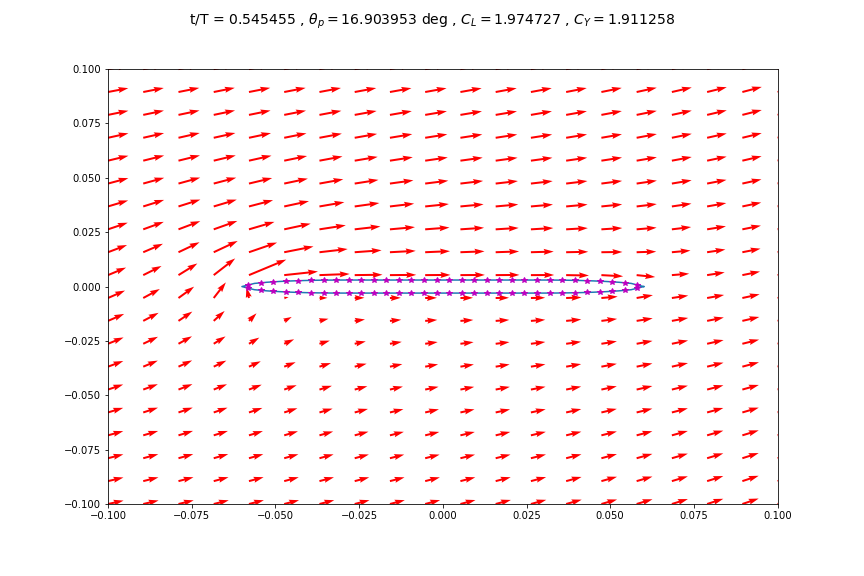
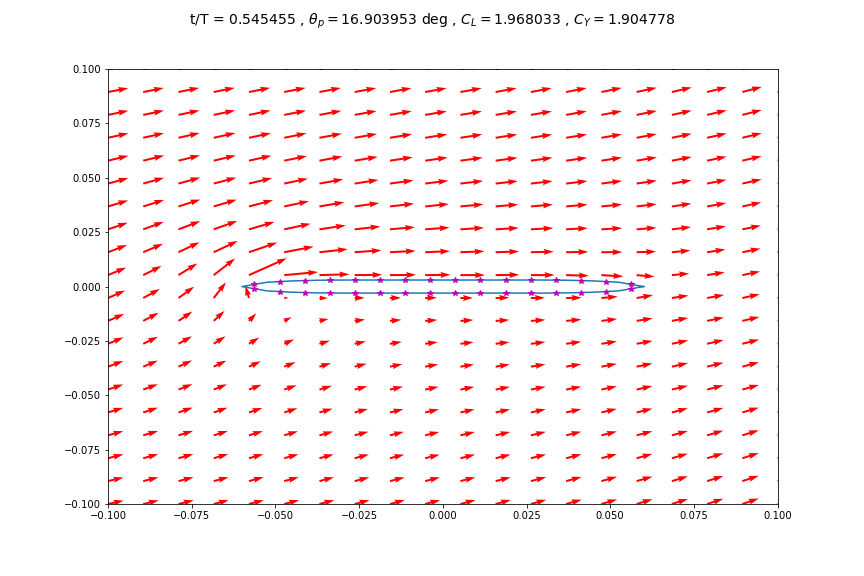
Added moment and pressure coefficient calculation
Added a moment calculation based on the kutta formulat for Lift, but I think it's wrong.  Added a plot of C_p over the chord length.  It might be right but unsure.

Changed region(s): [[0.2812, 0.4375, 0.75, 0.5312], [0.5938, 0.0, 0.6562, 0.0625], [0.7188, 0.0312, 0.7812, 0.0625]]

diff --git a/steady flat plate.py b/steady flat plate.py
@@ -10,14 +10,14 @@ import copy
 
 # setup panel coordinates and control point coordinates
 AoA=5*np.pi/180
-Uinf=8.8
+Uinf=3
 rho=1.204
 chord=.12
 span=chord*2
-thickness=.001
+thickness=.006
 minRad=thickness/2
 majRad=chord/4
-numPanels=64
+numPanels=128
 xp=np.zeros((numPanels+1,1))
 yp=np.zeros((numPanels+1,1))
 
@@ -111,9 +111,9 @@ for i in range(numPanels):
     si[i]=((xp[i+1]-xp[i])**2+(yp[i+1]-yp[i])**2)**(1/2)
     perimeter=perimeter+si[i]
 gamma=x[-1]*perimeter
+Cl_kutta=2*gamma/(Uinf*chord)
 
 # Lift from conformal mapping
-Cl_kutta=2*gamma/(Uinf*chord)
 Cl_J=2*np.pi*np.sin(AoA)
 
 # lift from bernoulli
@@ -121,6 +121,15 @@ dP=np.reshape(1/2*rho*(Uinf**2-tangVelFoil**2),(numPanels,1))
 yForceDist=-dP*si*np.cos(theta-AoA)
 lift_bern=np.sum(yForceDist)
 Cl_bern=2*lift_bern/(rho*Uinf**2*chord)
+
+# moment about pitching axis from kutta
+FyKutta=rho*(normU**2+tangU**2)**(1/2)*x[-1]*np.cos(AoA)
+momentKutta=np.sum(FyKutta*-xc)
+
+# coefficient of pressure over chord, 1st column collocation point, 2nd column Cp
+CP=np.zeros((numPanels//2,2))
+CP[:,0]=np.reshape(xc[:numPanels//2],(numPanels//2,))
+CP[:,1]=np.reshape((dP[:numPanels//2]-dP[numPanels//2-1::-1])/(1/2*rho*Uinf**2),(numPanels//2,))
 
 # calculate velocities in the flow field
 numPoints=20
@@ -175,8 +184,16 @@ plt.xlim(xLeft,xRight)
 plt.plot(xp,yp)
 plt.quiver(X,Y,xVelStream,yVelStream,color='r')
 plt.plot(xc,yc,'*',color='m')
-plt.savefig('steady_plate_5_AoA_.png')
+#plt.savefig('steady_plate_5_AoA_.png')
+
+# plot pressure coefficient
+fig2=plt.figure(figsize=(12,8))
+fig2.add_subplot(111)
+plt.plot(CP[:,0],CP[:,1])
+plt.xlabel('chord',fontsize=14)
+plt.ylabel(r'$C_P$',fontsize=14)
 
 print('C_L from kutta:',Cl_kutta)
 print('C_L from bernoulli:',Cl_bern)
 print('C_L from conformal mapping:',Cl_J)
+print('moment about pivot: ',momentKutta)

diff --git a/symmetric joukowski.py b/symmetric joukowski.py
@@ -5,12 +5,11 @@ steady panel method from HSPM
 """
 
 import numpy as np
-import scipy as sc
 import matplotlib.pyplot as plt
 import copy
 
 # setup panel coordinates and control point coordinates
-AoA=15*np.pi/180
+AoA=5*np.pi/180
 Uinf=3
 rho=1.204
 chord=.12
@@ -103,7 +102,6 @@ gamma=x[-1]*perimeter
 Cl_kutta=2*gamma/(Uinf*chord)
 
 # Lift from conformal mapping
-
 Cl_J=2*np.pi*(1+.77*thickness/chord)*np.sin(AoA)
 
 # lift from bernoulli
@@ -111,6 +109,15 @@ dP=np.reshape(1/2*rho*(Uinf**2-tangVelFoil**2),(numPanels,1))
 yForceDist=-dP*si*np.cos(theta-AoA)
 lift_bern=np.sum(yForceDist)
 Cl_bern=2*lift_bern/(rho*Uinf**2*chord)
+
+# moment about pitching axis from kutta
+FyKutta=rho*(normU**2+tangU**2)**(1/2)*x[-1]*np.cos(AoA)
+momentKutta=np.sum(FyKutta*-xc)
+
+# coefficient of pressure over chord, 1st column collocation point, 2nd column Cp
+CP=np.zeros((numPanels//2,2))
+CP[:,0]=np.reshape(xc[:numPanels//2],(numPanels//2,))
+CP[:,1]=np.reshape((dP[:numPanels//2]-dP[numPanels//2-1::-1])/(1/2*rho*Uinf**2),(numPanels//2,))
 
 # calculate velocities in the flow field
 numPoints=20
@@ -165,8 +172,16 @@ plt.xlim(xLeft,xRight)
 plt.plot(xp,yp)
 plt.quiver(X,Y,xVelStream,yVelStream,color='r')
 plt.plot(xc,yc,'*',color='m')
-#plt.savefig('steady_plate_15_AoA.png')
+#plt.savefig('steady_plate_5_AoA_.png')
+
+# plot pressure coefficient
+fig2=plt.figure(figsize=(12,8))
+fig2.add_subplot(111)
+plt.plot(CP[:,0],CP[:,1])
+plt.xlabel('chord',fontsize=14)
+plt.ylabel(r'$C_P$',fontsize=14)
 
 print('C_L from kutta:',Cl_kutta)
 print('C_L from bernoulli:',Cl_bern)
 print('C_L from conformal mapping:',Cl_J)
+print('moment about pivot: ',momentKutta)

diff --git a/Unsteady Attached Flow plate.py b/Unsteady Attached Flow plate.py
@@ -17,7 +17,7 @@ chord=.12
 thickness=.006
 minRad=thickness/2
 majRad=chord/4
-numPanels=64
+numPanels=32
 xp=np.zeros((numPanels+1,1))
 yp=np.zeros((numPanels+1,1))
 
@@ -156,6 +156,8 @@ CYKuttaSto=np.zeros((numFrames,1))
 ClBernSto=np.zeros((numFrames,1))
 CYBernSto=np.zeros((numFrames,1))
 xSto=np.zeros((numPanels+1,numFrames))
+momSto=np.zeros((numFrames,1))
+CPSto=np.zeros((numPanels//2,numFrames))
 
 # panel method for each snap shot in time interval
 for t in range(numFrames):     
@@ -188,8 +190,14 @@ for t in range(numFrames):
     Cl_bern=2*lift_bern/(rho*Uinf**2*chord)
     CY_bern=Cl_bern*np.cos(np.average(AoA))
     
-    # moment about pitching axis
+    # moment about pitching axis from kutta
+    FyKutta=rho*(normU**2+tangU**2)**(1/2)*x[-1]*np.cos(AoA)
+    momentKutta=np.sum(FyKutta*-xc)
     
+    # coefficient of pressure over chord, 1st column collocation point, 2nd column Cp
+    CP=np.zeros((numPanels//2,2))
+    CP[:,0]=np.reshape(xc[:numPanels//2],(numPanels//2,))
+    CP[:,1]=np.reshape((dP[:numPanels//2]-dP[numPanels//2-1::-1])/(1/2*rho*Uinf**2),(numPanels//2,))
     
     # adjust freestream velocity in domain to account for heaving and pitching
     xModU=(Uinf+theta_t_dot[t]*X[0,:]*np.sin(theta_t[t]))*np.cos(theta_t[t])+(-h_t_dot[t]+theta_t_dot[t]*X[0,:]*np.cos(theta_t[t]))*-np.sin(theta_t[t])
@@ -222,5 +230,7 @@ for t in range(numFrames):
     ClBernSto[t]=Cl_bern
     CYBernSto[t]=Cl_bern*np.cos(np.average(AoA))
     xSto[:,t]=x[:,0]
+    momSto[t]=momentKutta
+    CPSto[:,t]=CP[:,1]
 
-plt.plot(tInterval,ClKuttaSto)
+plt.plot(tInterval,CYKuttaSto)
